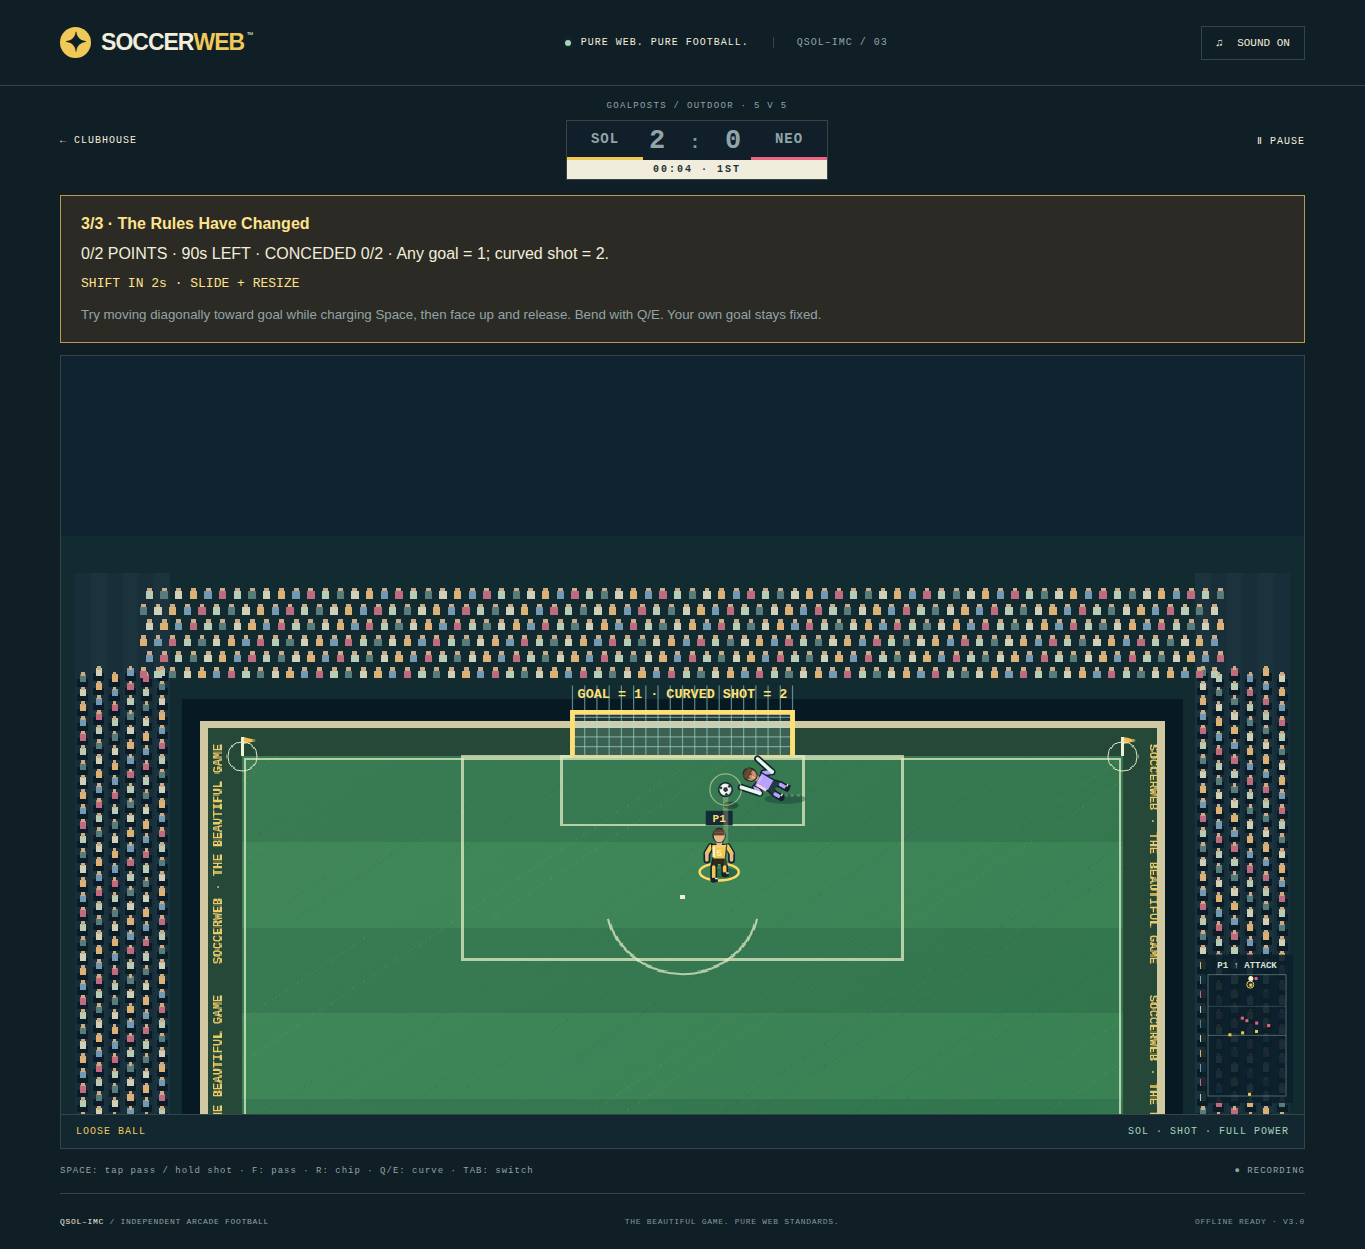
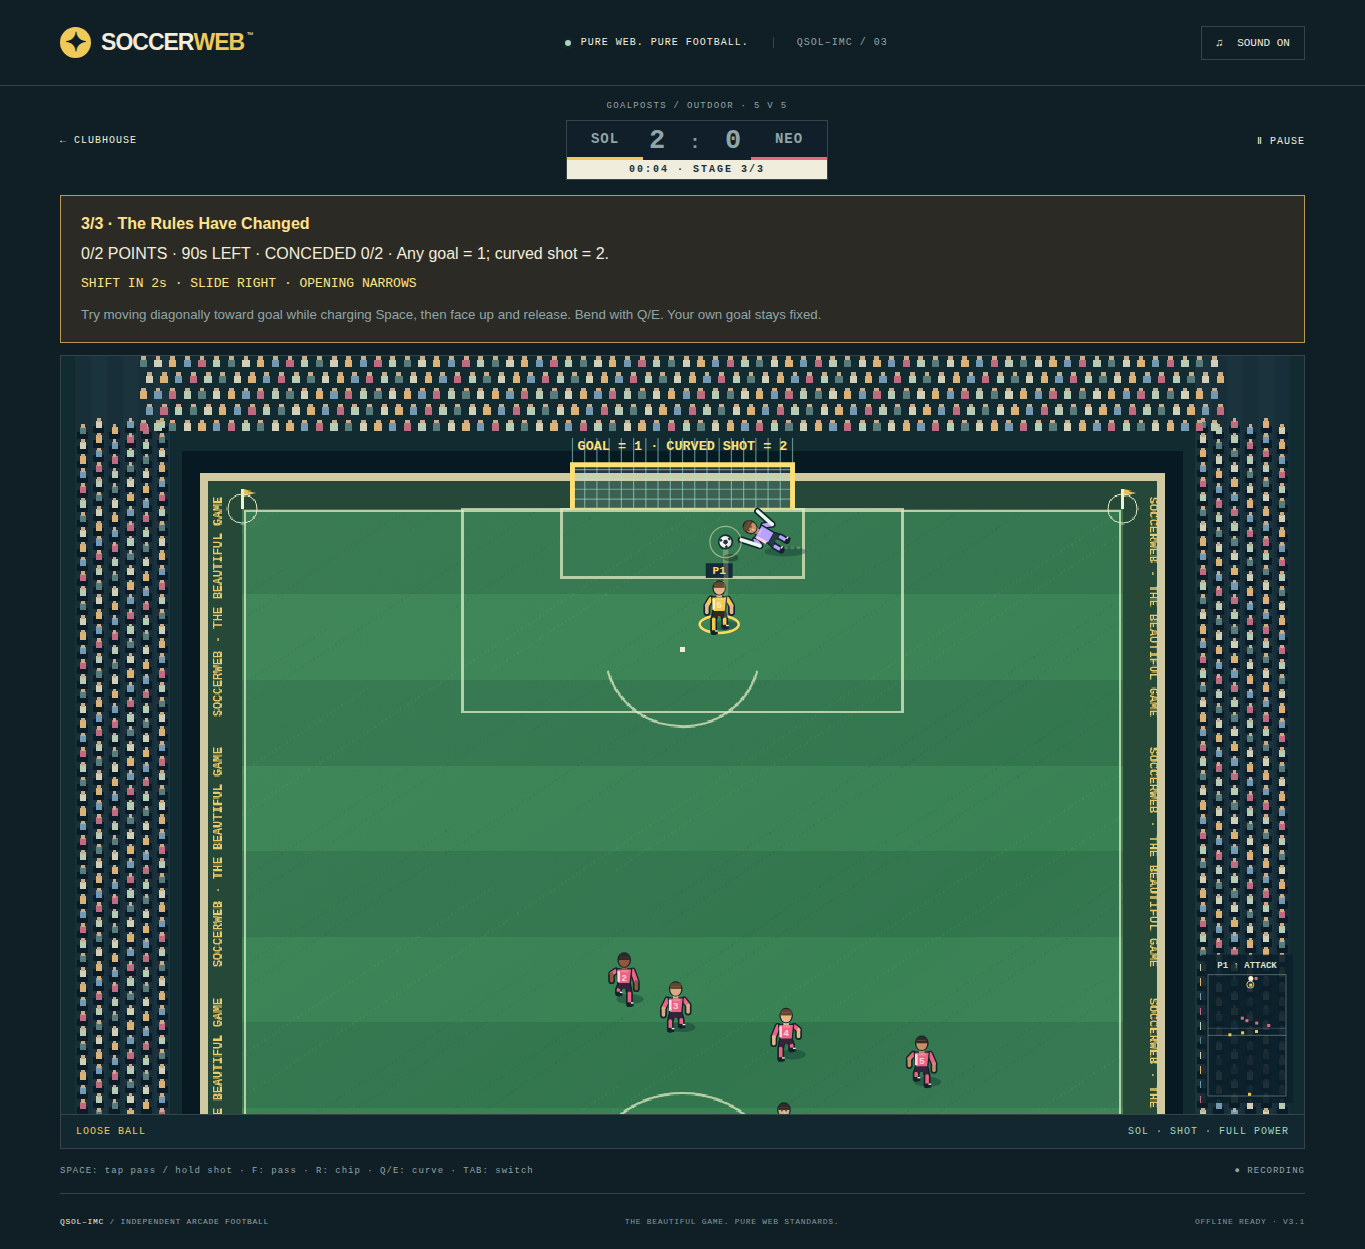
docs: attach verified GOALPOSTS and controller captures and finalize v5 guides

diff --git a/README.md b/README.md
@@ -35,12 +35,14 @@ The controls can be remapped independently in **Settings**. Turn before releasin
 - Outdoor 11-versus-11 with throw-ins, corners, goal kicks, two halves and full time.
 - Indoor 6-versus-6 with a smaller pitch, faster movement and rebounding walls.
 - Quick Match, independent local two-player controls and AI-versus-AI attract mode.
+- Six Practice / Skills drills and the optional three-stage outdoor GOALPOSTS challenge.
+- Standard and common USB SNES controller profiles, live calibration, local remapping and menu navigation.
 - Eight fictional clubs with different colours and tactical tendencies; three AI difficulties.
 - Eight-team knockout Cup and seven-opponent International Challenge. Ties use golden goal. Other cup fixtures run the same simulation; they are not random score generators.
 - Acceleration, physical dribbling, interceptions, charging, short/long passes, straight/curved shots, chips, volleys, overhead attempts, tackles and goalkeeper saves/rebounds.
 - Rain alters traction, rolling resistance and seeded slip chances.
 - Articulated procedural footballers, distinct outdoor/indoor stadiums, ball shading/trails, three camera views, minimap, CRT/mint/pixel styles and reduced-motion support.
-- Five original layered music themes and impact-sensitive synthesized effects, with independent volume controls.
+- Six original layered music themes and impact-sensitive synthesized effects, with independent volume controls.
 - Automatic slow-motion goal replays and export/import of complete tick-indexed input replays.
 - Local settings and competition progress; service-worker caching for offline use after the first successful load.
 
@@ -58,8 +60,10 @@ The real Chromium/Firefox smoke suite is a **development-only** Python dependenc
 ```sh
 python3 -m venv work/test-env
 work/test-env/bin/pip install playwright==1.56.0
-work/test-env/bin/python -m playwright install chromium
+work/test-env/bin/python -m playwright install chromium firefox
 work/test-env/bin/python tests/browser_smoke.py
+work/test-env/bin/python tests/goalposts_browser.py
+BROWSER=firefox work/test-env/bin/python tests/goalposts_browser.py
 ```
 
 Linux hosts may also need `python -m playwright install --with-deps chromium firefox`. CI uses Ubuntu 24.04. The browser suite serves the game under a repository subpath and checks real keyboard movement, shooting, pause/resume, full time, replay export/import/playback, indoor P2 input, saved settings and an offline reload/match. Screenshots, RAF timings, seeded gameplay reports, audio event traces/reference WAVs and the actual match replay are uploaded as CI artifacts. High DPI, reduced motion, display options and live audio pause/resume are also checked. The matchday suite also uses sustained human-control inputs, virtual Gamepad API devices, all practice drills, separate CPU stage measurements and captured live Web Audio. See [verification evidence and limits](docs/VERIFICATION.md).
@@ -74,6 +78,6 @@ The worker precaches only local runtime assets, retains a coherent app version, 
 
 ## Engineering and release status
 
-Read [architecture and numeric rules](docs/ARCHITECTURE.md), [release notes](docs/RELEASE-NOTES.md), and [verification](docs/VERIFICATION.md). Phase 3 fixes action/possession edge cases, adds training and tunes indoor defending. See the [Phase 3 evidence](docs/PHASE-3.md) and [owner acceptance script](docs/MANUAL-QA.md). Historical Phase 2 evidence remains available. Manual multi-browser, physical gamepad, audio listening and extended balance reviews remain part of the next engineering pass. Rules intentionally omit offside, fouls, cards, substitutions and penalty shootouts. Replay hashes detect accidental divergence, not adversarial tampering.
+Read [architecture and numeric rules](docs/ARCHITECTURE.md), [release notes](docs/RELEASE-NOTES.md), and [verification](docs/VERIFICATION.md). Version 3.1 adds [GOALPOSTS](docs/GOALPOSTS.md) and [controller calibration](docs/CONTROLLERS.md), preserving the Phase 3 action/possession, training and indoor improvements. See the [Phase 3 evidence](docs/PHASE-3.md) and [owner acceptance script](docs/MANUAL-QA.md). Historical Phase 2 evidence remains available. Manual multi-browser, physical gamepad, audio listening and extended balance reviews remain part of the next engineering pass. Rules intentionally omit offside, fouls, cards, substitutions and penalty shootouts. Replay hashes detect accidental divergence, not adversarial tampering.
 
 Historical references: [MicroProse Soccer overview](https://en.wikipedia.org/wiki/MicroProse_Soccer) and [C64 Wiki mechanics](https://www.c64-wiki.com/wiki/Microprose_Soccer). This is independent software: no original source, sprites, team data, recordings, melodies or branding are included.

diff --git a/docs/ARCHITECTURE.md b/docs/ARCHITECTURE.md
@@ -38,9 +38,9 @@ The simulation imports no DOM, browser clock, rendering or audio code. `step(sta
 
 The reproducibility promise is **same release/version + normalized config/seed + the same tick-indexed input = the same final authoritative state**. Regression tests and browser re-import test this promise. Cross-browser CPU/audio bit identity is not claimed without cross-browser evidence. Changing numerical rules requires a replay format/version migration or explicit incompatibility; preserve fixtures before doing so.
 
-## Input and replay format v4
+## Input and replay format v5
 
-Version 4 changes action gesture/short first-time buffering, control on receipt, contested ownership, keeper catches and indoor AI decisions. Player fire-mode/pending-action fields are authoritative. Versions 1, 2 and 3 are explicitly rejected; no migration or silently changed resimulation is attempted. Version 2 previously corrected goal-frame scoring precedence; that correction is preserved.
+Version 5 adds opt-in GOALPOSTS configuration, geometry clocks, stage state and recorded stage advancement. Normal football preserves the Version 4 action gestures, first-time buffering, receiving, keeper protection and indoor AI decisions. Player fire-mode/pending-action fields remain authoritative. Versions 1–4 are explicitly rejected; no migration or silently changed resimulation is attempted. Version 2 previously corrected goal-frame scoring precedence; that correction is preserved.
 
 One frame contains two arrays: `[horizontal, vertical, buttons, curve]`. Axes and curve are integers in -1..1. Button bits: kick=1, pass=2, chip=4, switch=8, cancel gesture=16. Resume after an overlay emits one cancel bit on the next active tick, recorded like other input; pause itself never mutates authoritative state. Entries are indexed by tick; there is no wall-clock timestamp. Input arrays include both teams even when one is AI-controlled. AI is rerun, not recorded as canned positions.
 
@@ -60,7 +60,7 @@ State phases: `kickoff → play → goal/restart/halftime/fulltime`. Half time s
 
 ## Procedural audio
 
-Five original 32-bar themes (menu/outdoor/indoor/goal/victory) use intro, verse, lift and turnaround sections. Explicit bass, lead, harmony, kick/snare/hat/clap and indoor arpeggio events have seeded fills and a stable tie order. Pure SFX recipes vary envelopes, noise, pitch sweeps and FM with event type and impact speed, using their own seed.
+Six original 32-bar themes (menu/outdoor/indoor/goal/victory/goalposts) use intro, verse, lift and turnaround sections. Explicit bass, lead, harmony, kick/snare/hat/clap and indoor arpeggio events have seeded fills and a stable tie order. Pure SFX recipes vary envelopes, noise, pitch sweeps and FM with event type and impact speed, using their own seed.
 
 The live Web Audio graph uses separate music/SFX buses, stereo panning, shaped gain ramps and a compressor before master gain. Scheduling uses tick buckets, a 120 ms lookahead, a 16-tick catch-up bound and at most 64 simultaneous voice groups; ended sources disconnect. Theme changes release existing music voices. Serialized suspend/resume transitions follow pause and tab visibility. Audio starts after a browser interaction. Actual speaker output remains browser/device dependent and is never authoritative.
 

diff --git a/docs/evidence/goalposts/README.md b/docs/evidence/goalposts/README.md
@@ -1,11 +1,11 @@
 # GOALPOSTS / USB SNES evidence
 
[2 lines of base64/hex data omitted]
 
 The route uses keyboard input for the first two stages and a virtual generic SNES adapter, after button remapping through the real calibration UI, for the third. Both runs score three real goals for four points, show victory, export the full replay, import/verify through the worker, and play it back to its final hash. The route also runs an unattended Elite failure (failure-loop coverage, not difficulty evidence), retries, returns home, checks cup/preferences isolation and reloads GOALPOSTS offline under the repository subpath.
 
 - Chromium 141.0.7390.37: **1,083 recorded ticks, `1af41b24`**.
-- Firefox 142.0: **1,083 recorded ticks, `bd9a8674`**.
+- Firefox 142.0: **1,085 recorded ticks, `288c322d`**.
 - The differing real-browser timing streams each verify independently; fixed native stage fixtures are separate.
 - `controller-calibration.png` shows the actual live logical D-pad/buttons and virtual device readout. No physical controller was attached.
 - `stage-1.png`–`stage-3.png`, `victory.png`, `failure.png` and `menu.png` are actual full-size screenshots. Stage one includes moving-frame play; the completion route deliberately uses the initial aiming window for stages two/three. Native sweeps additionally test all resize/slide intervals.

diff --git a/docs/CONTROLS.md b/docs/CONTROLS.md
@@ -58,6 +58,6 @@ Settings offers Follow, Wide tactical and Close cameras; Clean, CRT, Mint and Lo
 
 ## Replays, sound and offline use
 
-Pause or finish a match to export its replay JSON. Open **Replay studio**, import the file and wait for verification. A matching hash enables playback. This works for partial as well as complete v4 recordings. Earlier v1/v2/v3 files are rejected because the simulation changed. A goal automatically triggers a slower visual replay of recent recorded states.
+Pause or finish a match to export its replay JSON. Open **Replay studio**, import the file and wait for verification. A matching hash enables playback. This works for partial as well as complete v5 recordings. Earlier v1/v2/v3/v4 files are rejected because the simulation changed. A goal automatically triggers a slower visual replay of recent recorded states.
 
 Audio requires a click or kickoff to satisfy browser autoplay rules. Menu, outdoor, indoor, goal and victory have separate original themes. Adjust master, music and effects volumes independently; pausing suspends audio, and resuming restarts it. Offline play becomes available after successful asset caching, indicated in the footer. Installation is optional; an offline browser reload also works after caching. Close old tabs and reopen after an update to activate the new cached release.
